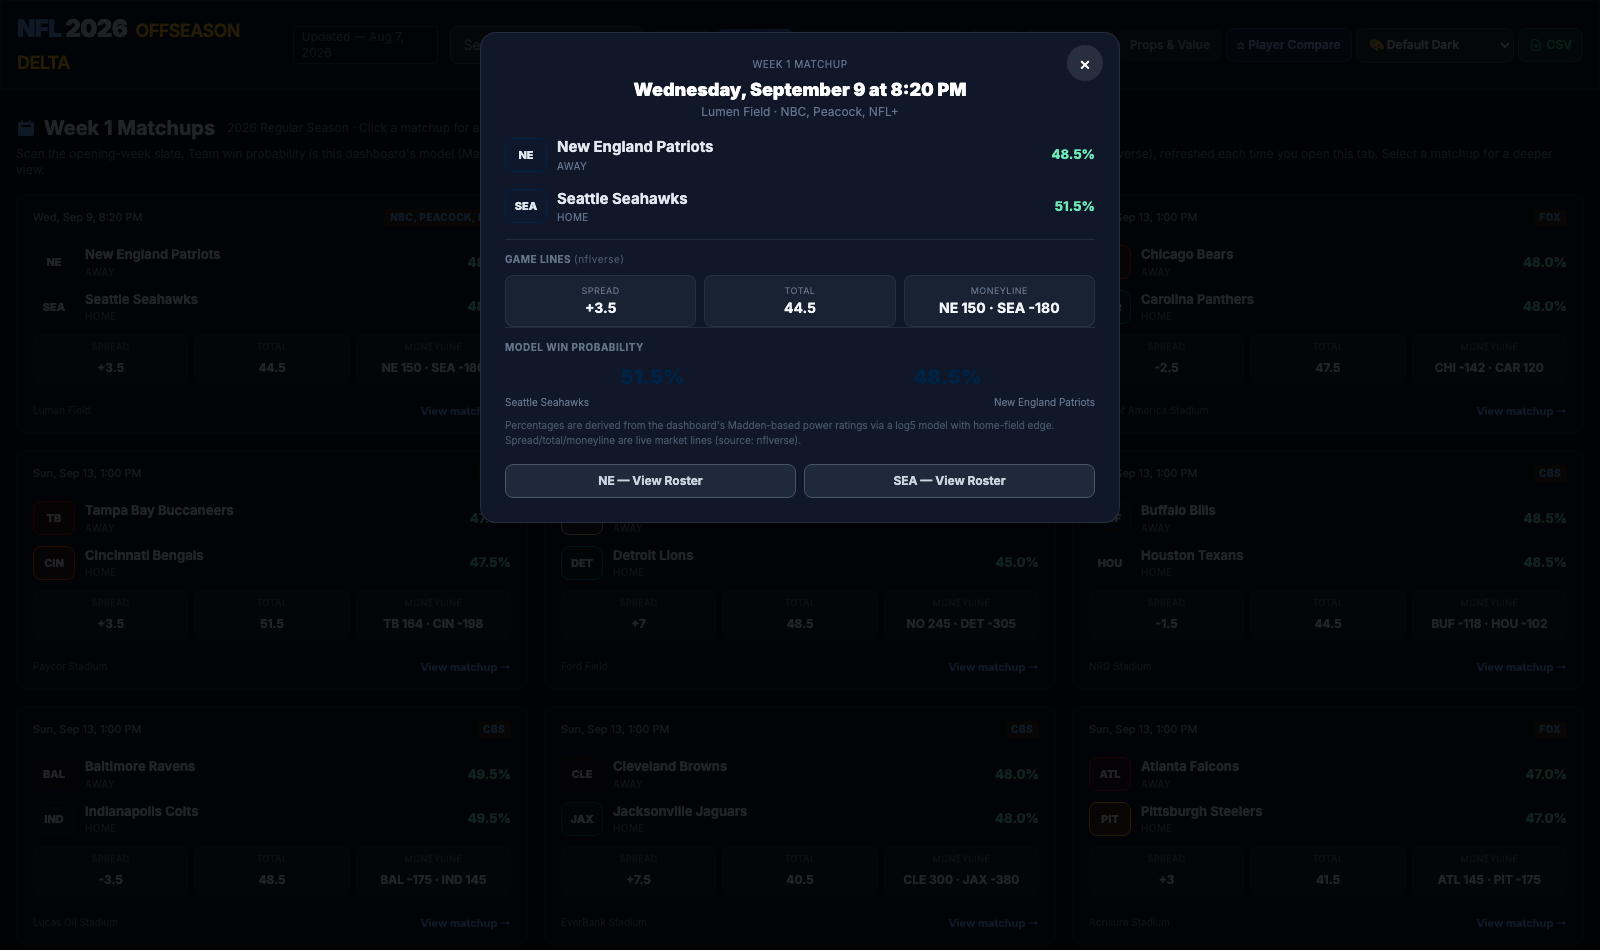
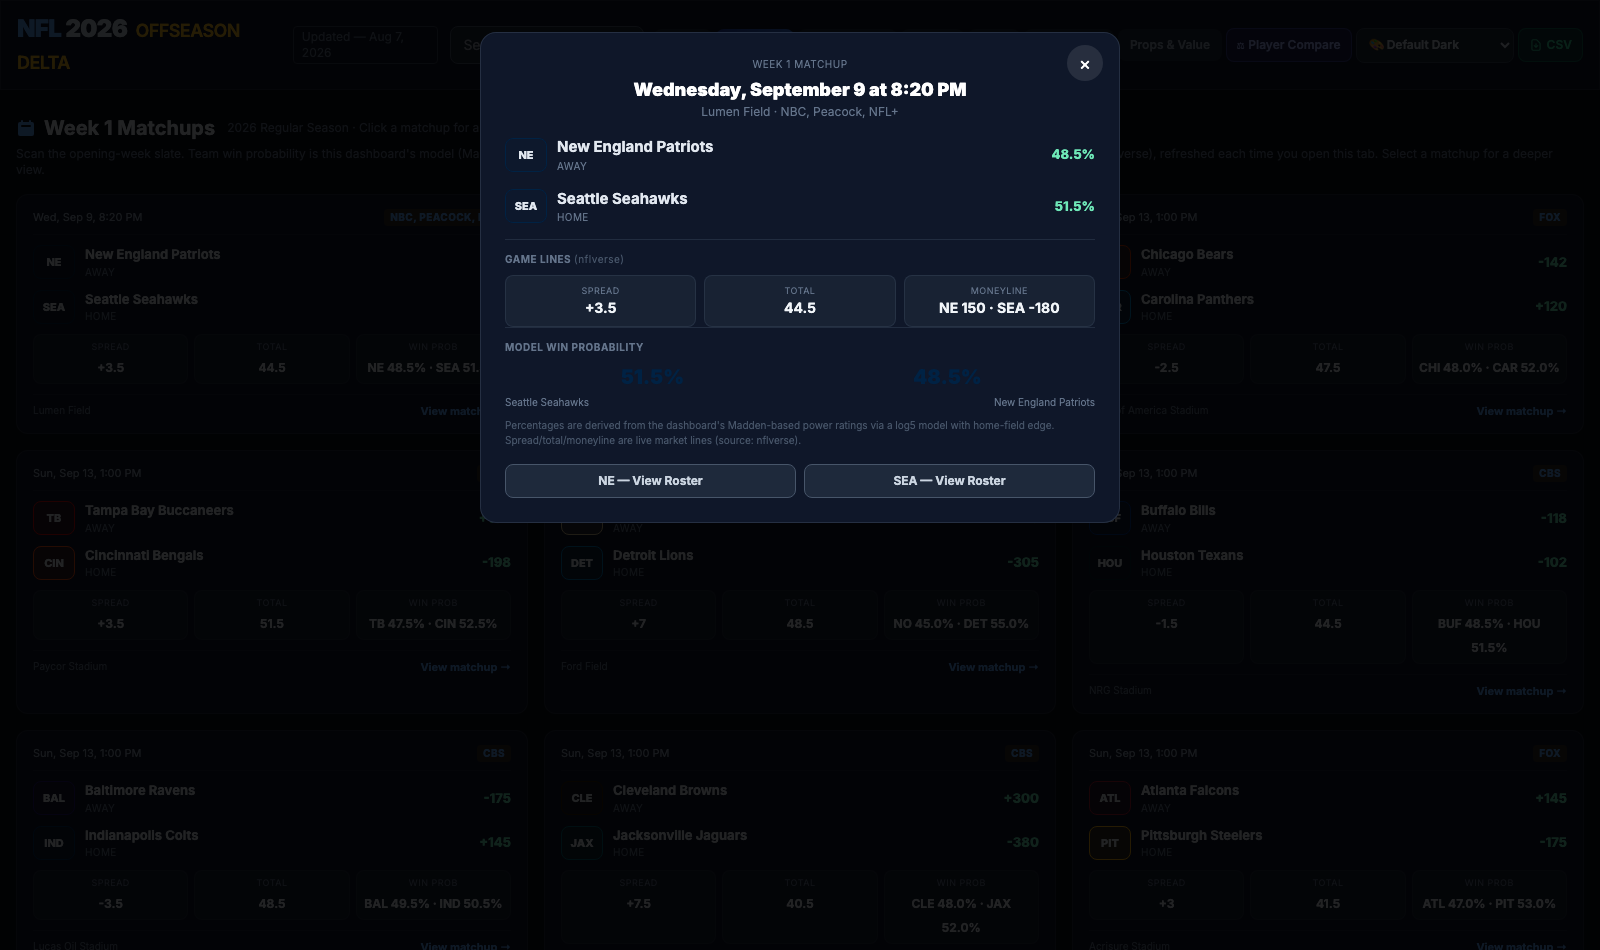
feat: swap per-team moneyline onto schedule cards, move win prob to line row
On the main-page matchup cards, each team row now shows that team's own
moneyline (e.g. NE +150 / SEA -180) instead of its win probability, and
the third line cell now shows the model win probabilities for both teams
("Win Prob  NE 48.5% · SEA 51.5%"). The detail modal keeps its existing
layout. Updates the schedule smoke test to assert the new card layout.

Generated with Codebuff 🤖

diff --git a/index.html b/index.html
@@ -3261,14 +3261,13 @@ function winProb(homeStr, awayStr){
   return Math.min(0.97, Math.max(0.03, home));
 }
 
-function scheduleTeamG(teamName, homeStr, awayStr, role){
-  const prob = winProb(homeStr, awayStr);
-  const shown = role === 'home' ? prob : (prob === null ? null : 1 - prob);
+function scheduleTeamG(teamName, homeStr, awayStr, role, ml){
   const abbr = DATA.teamAbbr[teamName] || ABBR_TO_TEAM[teamName] || teamName;
   const esc = (s) => String(s || '').replace(/&/g,'&amp;').replace(/</g,'&lt;').replace(/>/g,'&gt;');
+  const mlShown = (ml === null || ml === undefined) ? null : (ml > 0 ? '+' + ml : String(ml));
   return '<div class="sch-team"><div class="sch-abbr" style="background:' + (DATA.teamColors[teamName] || '#1e293b') + '22;border-color:' + (DATA.teamColors[teamName] || '#3b4261') + '">' + esc(abbr) + '</div>' +
     '<div class="sch-info"><span class="sch-name">' + esc(teamName) + '</span><small>' + role + '</small></div>' +
-    '<div class="sch-prob">' + (shown === null ? '<span class="muted">—</span>' : (shown * 100).toFixed(1) + '%') + '</div></div>';
+    '<div class="sch-prob">' + (mlShown === null ? '<span class="muted">—</span>' : esc(mlShown)) + '</div></div>';
 }
 
 async function renderSchedule(){
@@ -3282,18 +3281,20 @@ async function renderSchedule(){
   }
   const esc = (s) => String(s == null ? '' : s).replace(/&/g,'&amp;').replace(/</g,'&lt;').replace(/>/g,'&gt;');
   const tv = (game) => game.tv ? '<strong class="sch-badge">' + esc(game.tv) + '</strong>' : '';
-  const lineRow = (game) => {
+  const lineRow = (game, homeStr, awayStr) => {
     const m = game.market;
-    if (!m) return '<div class="sch-lines">' + schLine('Spread','',null) + schLine('Total','',null) + schLine('Moneyline','',null) + '</div>';
+    const prob = winProb(homeStr, awayStr);
+    const aProb = prob === null ? null : 1 - prob;
+    const hProb = prob;
     const aAbbr = teamAbbrFor(game.away_team) || game.away_team;
     const hAbbr = teamAbbrFor(game.home_team) || game.home_team;
-    const ml = (m.away_ml !== null || m.home_ml !== null)
-      ? ((m.away_ml !== null ? aAbbr + ' ' + m.away_ml : '') + (m.away_ml !== null && m.home_ml !== null ? ' · ' : '') + (m.home_ml !== null ? hAbbr + ' ' + m.home_ml : '')).trim()
+    const wp = (aProb !== null && hProb !== null)
+      ? aAbbr + ' ' + (aProb * 100).toFixed(1) + '%' + ' · ' + hAbbr + ' ' + (hProb * 100).toFixed(1) + '%'
       : null;
     return '<div class="sch-lines">' +
-      schLine('Spread', m.spread, v => (v > 0 ? '+' : '') + v) +
-      schLine('Total', m.total, v => String(v)) +
-      schLine('Moneyline', ml, null) +
+      schLine('Spread', m ? m.spread : null, v => (v > 0 ? '+' : '') + v) +
+      schLine('Total', m ? m.total : null, v => String(v)) +
+      schLine('Win Prob', wp, null) +
       '</div>';
   };
   const fmt = (game) => {
@@ -3309,9 +3310,9 @@ async function renderSchedule(){
       'aria-label="View analysis for ' + esc(game.away_team) + ' at ' + esc(game.home_team) + '" ' +
       'data-game="' + esc(game.game_id) + '">' +
       '<div class="sch-head"><span>' + esc(fmt(game)) + '</span> ' + tv(game) + '</div>' +
-      scheduleTeamG(game.away_team, homeStr, awayStr, 'Away') +
-      scheduleTeamG(game.home_team, homeStr, awayStr, 'Home') +
-      lineRow(game) +
+      scheduleTeamG(game.away_team, homeStr, awayStr, 'Away', game.market ? game.market.away_ml : null) +
+      scheduleTeamG(game.home_team, homeStr, awayStr, 'Home', game.market ? game.market.home_ml : null) +
+      lineRow(game, homeStr, awayStr) +
       '<div class="sch-foot"><span>' + esc(game.venue || '') + '</span><span class="sch-cta">View matchup →</span></div>' +
       '</article>';
   }).join('');

diff --git a/verify_schedule.py b/verify_schedule.py
@@ -80,10 +80,13 @@ with sync_playwright() as p:
                 break
         page.wait_for_timeout(400)
     grid_low = page.inner_text("#scheduleGrid").lower()
-    if ok_market and "spread" in grid_low and "total" in grid_low and "moneyline" in grid_low and any(c.isdigit() for c in grid_low):
-        successes.append("Cards show real Spread / Total / Moneyline values")
+    opener = page.locator(".sch-card").first.inner_text()
+    # moneyline moved to each team row (e.g. +150 / -180); percentages live in the Win Prob cell
+    ml_on_team_rows = ("+150" in opener and "-180" in opener)
+    if ok_market and "spread" in grid_low and "total" in grid_low and "win prob" in grid_low and ml_on_team_rows and any(c.isdigit() for c in grid_low):
+        successes.append("Cards show Spread/Total/Win Prob in the line row and each team's moneyline on its row")
     else:
-        failures.append("Market line row missing or empty (spread/total/moneyline)")
+        failures.append("Card market layout wrong (expected Spread/Total/Win Prob row + per-team moneyline)")
 
     # 6. Command palette includes schedule
     page.keyboard.press("Meta+k")
